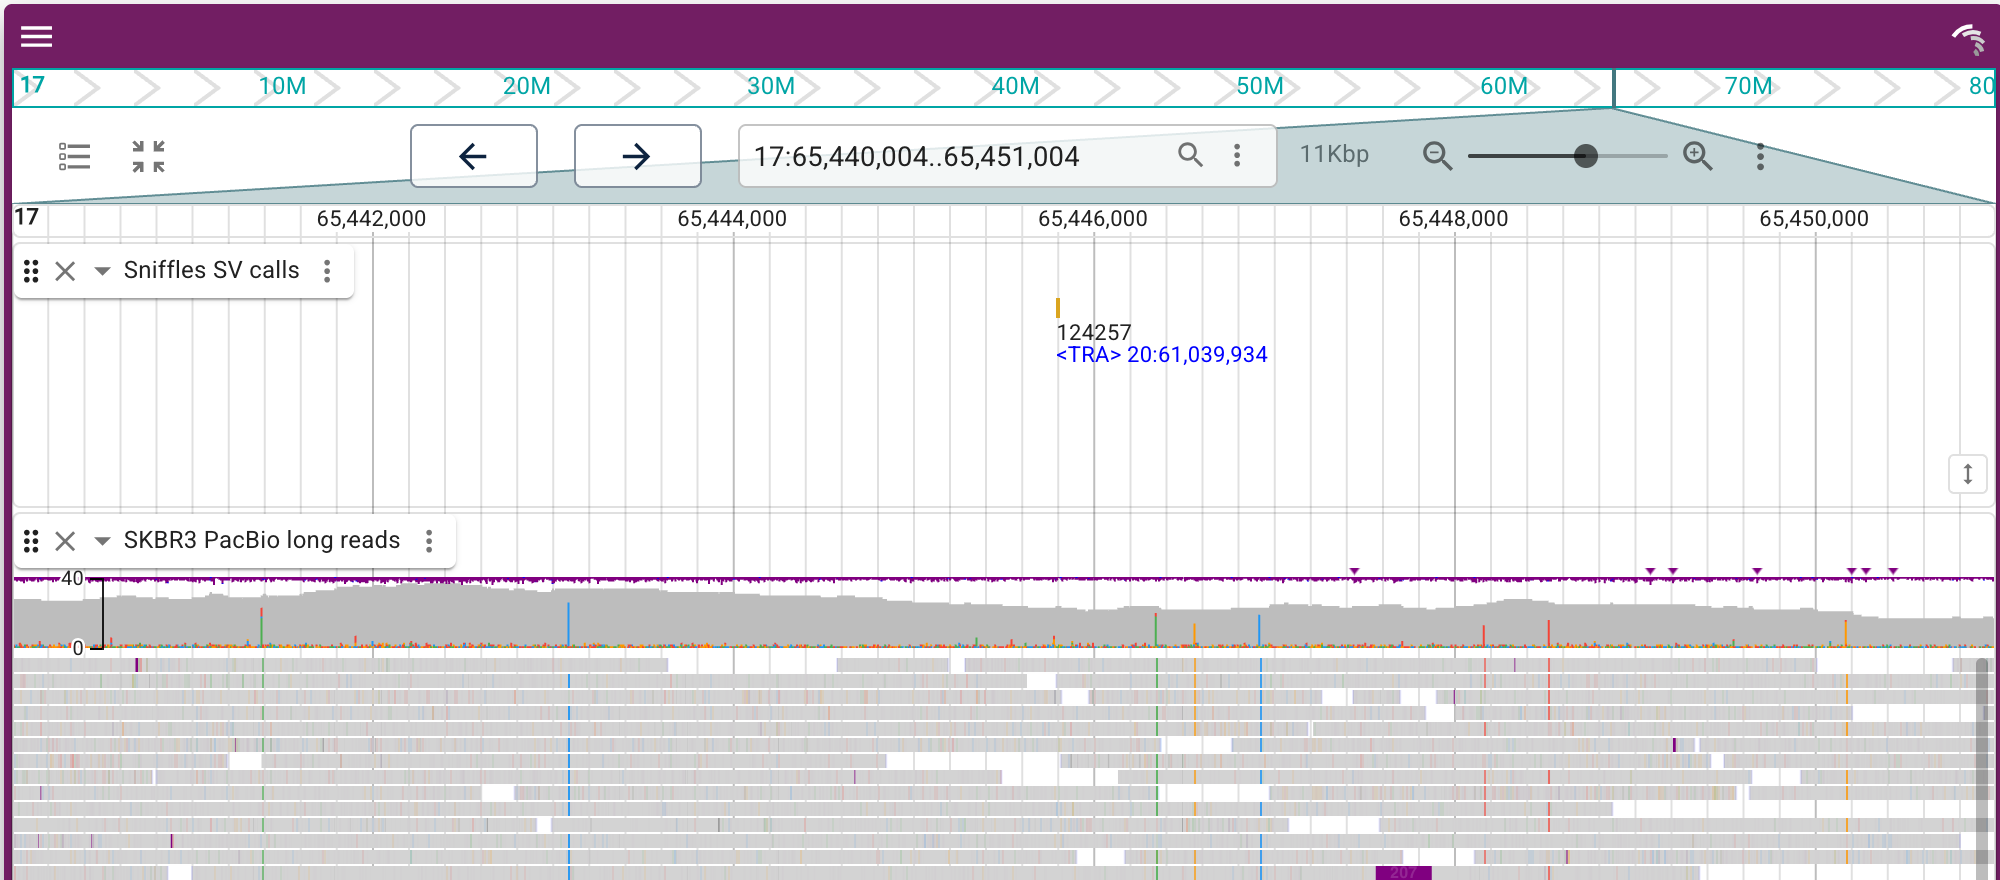
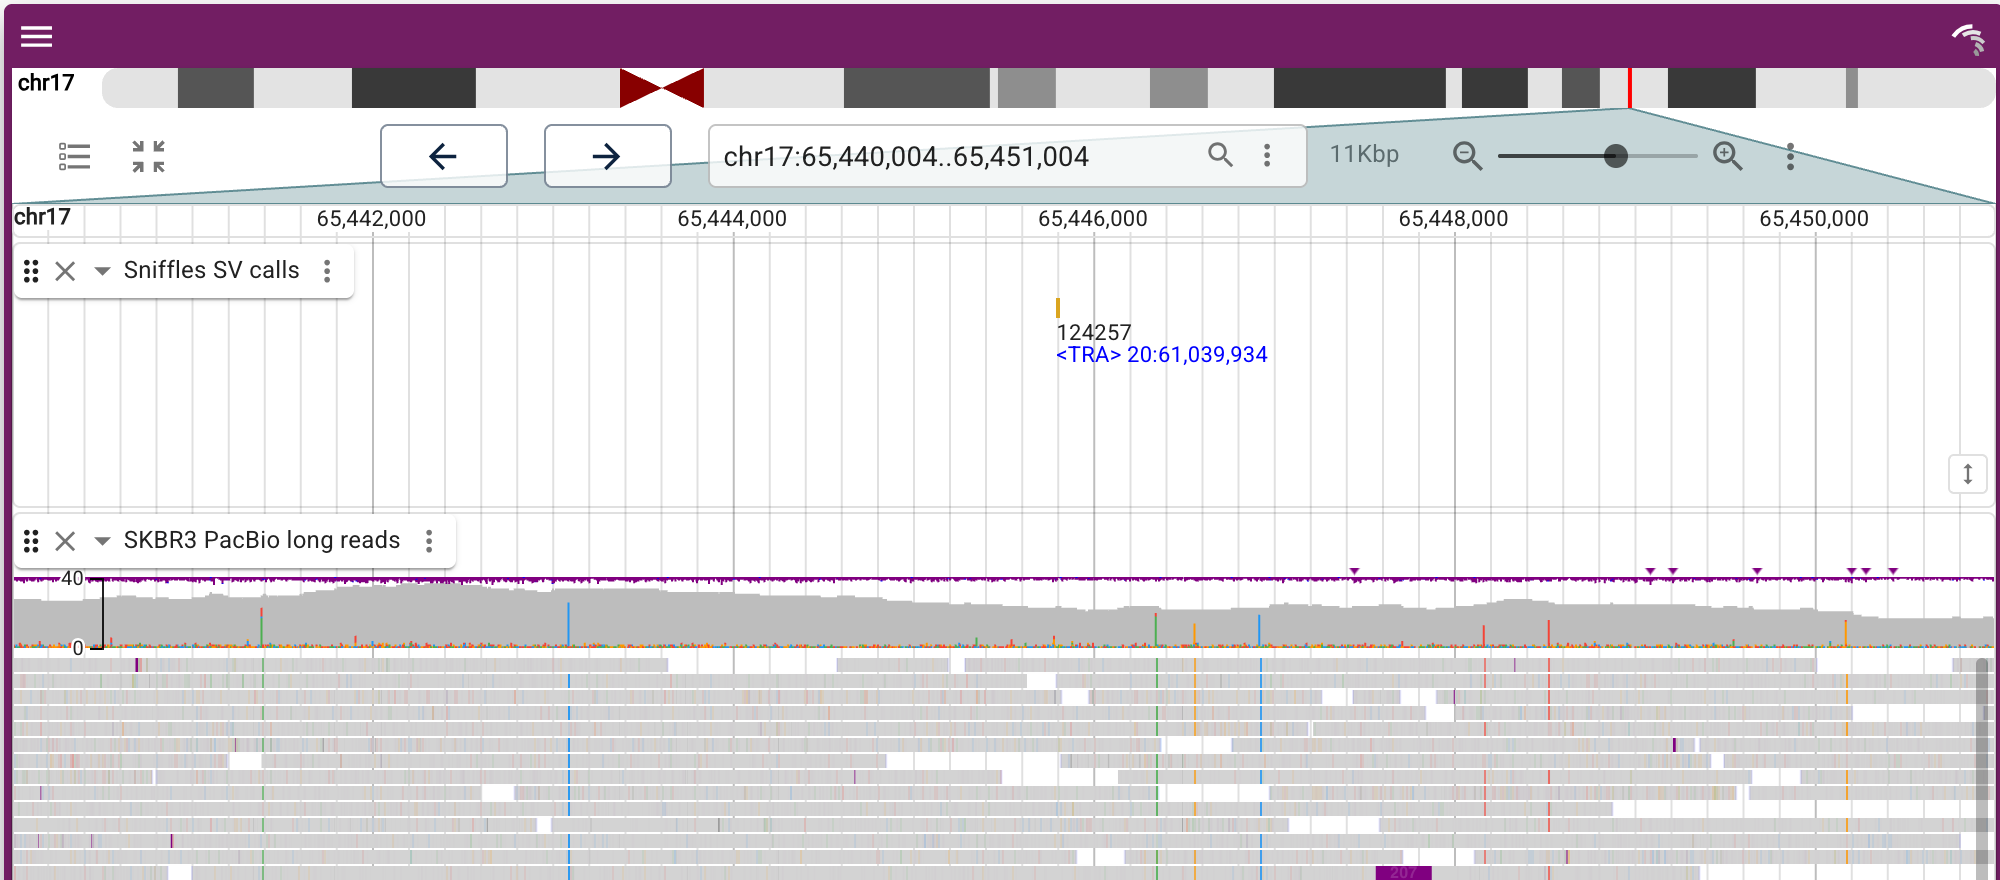
Deploying to gh-pages from @ GMOD/JBrowseR@ae35609b1a81b4aea1168d3afd086666b17318f0 🚀

diff --git a/articles/JBrowseR.html b/articles/JBrowseR.html
@@ -292,18 +292,9 @@ as a Manhattan plot right in the linear view, so no separate plotting
 widget is needed. Write the track as a config list — the same JSON a
 JBrowse config file holds — and let the <code>uri</code> shorthand find
 the <code>.tbi</code> index.</p>
-<p>The hosted hg19 hub carries no reference-name aliases (hg38’s does),
-so name that assembly yourself with its alias file — otherwise the view
-only answers to <code>chr2</code> and a track keyed on a bare
-<code>2</code> draws nothing.</p>
 <div class="sourceCode" id="cb9"><pre class="downlit sourceCode r">
-<code class="sourceCode R"><span><span class="va">hg19</span> <span class="op">&lt;-</span> <span class="fu"><a href="../reference/assembly.html">assembly</a></span><span class="op">(</span></span>
-<span>  <span class="st">"https://jbrowse.org/genomes/hg19/fasta/hg19.fa.gz"</span>,</span>
-<span>  refname_aliases <span class="op">=</span> <span class="st">"https://jbrowse.org/genomes/hg19/hg19_aliases.txt"</span></span>
-<span><span class="op">)</span></span>
-<span></span>
-<span><span class="fu"><a href="../reference/JBrowseR.html">JBrowseR</a></span><span class="op">(</span></span>
-<span>  <span class="va">hg19</span>,</span>
+<code class="sourceCode R"><span><span class="fu"><a href="../reference/JBrowseR.html">JBrowseR</a></span><span class="op">(</span></span>
+<span>  <span class="st">"hg19"</span>,</span>
 <span>  tracks <span class="op">=</span> <span class="fu"><a href="https://rdrr.io/r/base/list.html" class="external-link">list</a></span><span class="op">(</span><span class="fu"><a href="https://rdrr.io/r/base/list.html" class="external-link">list</a></span><span class="op">(</span></span>
 <span>    type <span class="op">=</span> <span class="st">"GWASTrack"</span>,</span>
 <span>    trackId <span class="op">=</span> <span class="st">"gwas_track"</span>,</span>
@@ -349,7 +340,7 @@ chr20 (<code>&lt;TRA&gt; 20:61,039,934</code>): the call sits in the
 Sniffles track and the long reads carry it below.</p>
 <div class="sourceCode" id="cb11"><pre class="downlit sourceCode r">
 <code class="sourceCode R"><span><span class="fu"><a href="../reference/JBrowseR.html">JBrowseR</a></span><span class="op">(</span></span>
-<span>  <span class="va">hg19</span>,</span>
+<span>  <span class="st">"hg19"</span>,</span>
 <span>  tracks <span class="op">=</span> <span class="fu"><a href="../reference/tracks.html">tracks</a></span><span class="op">(</span></span>
 <span>    <span class="fu"><a href="../reference/track.html">track</a></span><span class="op">(</span></span>
 <span>      <span class="st">"https://jbrowse.org/genomes/hg19/SKBR3/reads_lr_skbr3.fa_ngmlr-0.2.3_mapped.bam.sniffles1kb_auto_l8_s5_noalt.filtered.vcf.gz"</span>,</span>

diff --git a/articles/live-browser.html b/articles/live-browser.html
@@ -191,13 +191,8 @@ The adapter’s <code>uri</code> shorthand finds the <code>.tbi</code>
 index next to the data, and JBrowse fills in <code>displayId</code>, so
 the config stays short.</p>
 <div class="sourceCode" id="cb5"><pre class="downlit sourceCode r">
-<code class="sourceCode R"><span><span class="va">hg19</span> <span class="op">&lt;-</span> <span class="fu"><a href="../reference/assembly.html">assembly</a></span><span class="op">(</span></span>
-<span>  <span class="st">"https://jbrowse.org/genomes/hg19/fasta/hg19.fa.gz"</span>,</span>
-<span>  refname_aliases <span class="op">=</span> <span class="st">"https://jbrowse.org/genomes/hg19/hg19_aliases.txt"</span></span>
-<span><span class="op">)</span></span>
-<span></span>
-<span><span class="fu"><a href="../reference/JBrowseR.html">JBrowseR</a></span><span class="op">(</span></span>
-<span>  <span class="va">hg19</span>,</span>
+<code class="sourceCode R"><span><span class="fu"><a href="../reference/JBrowseR.html">JBrowseR</a></span><span class="op">(</span></span>
+<span>  <span class="st">"hg19"</span>,</span>
 <span>  tracks <span class="op">=</span> <span class="fu"><a href="https://rdrr.io/r/base/list.html" class="external-link">list</a></span><span class="op">(</span><span class="fu"><a href="https://rdrr.io/r/base/list.html" class="external-link">list</a></span><span class="op">(</span></span>
 <span>    type <span class="op">=</span> <span class="st">"GWASTrack"</span>,</span>
 <span>    trackId <span class="op">=</span> <span class="st">"gwas_track"</span>,</span>
@@ -212,7 +207,7 @@ the config stays short.</p>
 <span>  location <span class="op">=</span> <span class="st">"2"</span></span>
 <span><span class="op">)</span></span></code></pre></div>
 <div class="JBrowseR html-widget html-fill-item" id="htmlwidget-febe03efa1a2d8d52a86" style="width:700px;height:432.632880098888px;"></div>
-<script type="application/json" data-for="htmlwidget-febe03efa1a2d8d52a86">{"x":{"assembly":{"name":"hg19","uri":"https://jbrowse.org/genomes/hg19/fasta/hg19.fa.gz","refNameAliases":{"uri":"https://jbrowse.org/genomes/hg19/hg19_aliases.txt"}},"tracks":[{"type":"GWASTrack","trackId":"gwas_track","name":"GWAS","adapter":{"type":"GWASAdapter","scoreColumn":"neg_log_pvalue","uri":"https://jbrowse.org/genomes/hg19/gwas/summary_stats.txt.gz"},"displays":[{"type":"LinearManhattanDisplay","height":250}]}],"location":"2"},"evals":[],"jsHooks":[]}</script><p>For comparative genomics — synteny and dotplots across two assemblies
+<script type="application/json" data-for="htmlwidget-febe03efa1a2d8d52a86">{"x":{"assembly":"hg19","tracks":[{"type":"GWASTrack","trackId":"gwas_track","name":"GWAS","adapter":{"type":"GWASAdapter","scoreColumn":"neg_log_pvalue","uri":"https://jbrowse.org/genomes/hg19/gwas/summary_stats.txt.gz"},"displays":[{"type":"LinearManhattanDisplay","height":250}]}],"location":"2"},"evals":[],"jsHooks":[]}</script><p>For comparative genomics — synteny and dotplots across two assemblies
 — see the <a href="synteny.html">comparing genomes</a> article, which
 uses <code><a href="../reference/JBrowseRApp.html">JBrowseRApp()</a></code>.</p>
 </div>

diff --git a/articles/json-tutorial.html b/articles/json-tutorial.html
@@ -131,12 +131,12 @@ guide</a> and may contain <code>assembly</code>, <code>tracks</code>,
 <div class="section level2">
 <h2 id="from-a-config-file">From a config file<a class="anchor" aria-label="anchor" href="#from-a-config-file"></a>
 </h2>
-<p><code><a href="../reference/json_config.html">json_config()</a></code> reads a <code>config.json</code> (a local
-path or a URL) into the string <code>config</code> expects. A config
-file is portable — the same file works in the JBrowse web app and
+<p><code>config</code> takes the path or URL of a
+<code>config.json</code> and reads it for you (JSON text works too). A
+config file is portable — the same file works in the JBrowse web app and
 desktop.</p>
 <div class="sourceCode" id="cb2"><pre class="downlit sourceCode r">
-<code class="sourceCode R"><span><span class="fu"><a href="../reference/JBrowseR.html">JBrowseR</a></span><span class="op">(</span>config <span class="op">=</span> <span class="fu"><a href="../reference/json_config.html">json_config</a></span><span class="op">(</span><span class="st">"https://jbrowse.org/genomes/hg19/config.json"</span><span class="op">)</span><span class="op">)</span></span></code></pre></div>
+<code class="sourceCode R"><span><span class="fu"><a href="../reference/JBrowseR.html">JBrowseR</a></span><span class="op">(</span>config <span class="op">=</span> <span class="st">"https://jbrowse.org/genomes/hg19/config.json"</span><span class="op">)</span></span></code></pre></div>
 </div>
 <div class="section level2">
 <h2 id="from-an-r-list">From an R list<a class="anchor" aria-label="anchor" href="#from-an-r-list"></a>

diff --git a/reference/index.html b/reference/index.html
@@ -142,14 +142,6 @@
           <p><code><a href="synteny_track.html">synteny_track()</a></code> </p>
         </td>
         <td><p>Build a synteny (PAF) track config spanning two assemblies</p></td>
-      </tr></tbody><tbody><tr><th colspan="2">
-          <h2 id="advanced">Advanced <a href="#advanced" class="anchor" aria-hidden="true"></a></h2>
-          <p class="section-desc"></p><p>Full JBrowse config escape hatch</p>
-        </th>
-      </tr></tbody><tbody><tr><td>
-          <p><code><a href="json_config.html">json_config()</a></code> </p>
-        </td>
-        <td><p>Load a whole JBrowse 2 config file</p></td>
       </tr></tbody></table></div>
 
   <div class="col-md-3 hidden-xs hidden-sm" id="pkgdown-sidebar">

diff --git a/reference/JBrowseR.html b/reference/JBrowseR.html
@@ -142,9 +142,9 @@ it owns the initial track layout instead of <code>tracks</code>.</p></dd>
 
 
 <dt id="arg-config">config<a class="anchor" aria-label="anchor" href="#arg-config"></a></dt>
-<dd><p>Escape hatch: a whole JBrowse config (a list, or a JSON string
-from <code><a href="json_config.html">json_config()</a></code>) forming the payload base that explicit arguments
-override.</p></dd>
+<dd><p>Escape hatch: a whole JBrowse config forming the payload base
+that explicit arguments override — a list, or the path, URL, or JSON text of
+a <code>config.json</code>.</p></dd>
 
 
 <dt id="arg-width-height-elementid">width, height, elementId<a class="anchor" aria-label="anchor" href="#arg-width-height-elementid"></a></dt>

diff --git a/reference/JBrowseRApp.html b/reference/JBrowseRApp.html
@@ -132,9 +132,9 @@ builds the common PAF case.</p></dd>
 
 
 <dt id="arg-config">config<a class="anchor" aria-label="anchor" href="#arg-config"></a></dt>
-<dd><p>Escape hatch: a whole JBrowse config (a list, or a JSON string
-from <code><a href="json_config.html">json_config()</a></code>) forming the payload base that explicit arguments
-override.</p></dd>
+<dd><p>Escape hatch: a whole JBrowse config forming the payload base
+that explicit arguments override — a list, or the path, URL, or JSON text of
+a <code>config.json</code>.</p></dd>
 
 
 <dt id="arg-width-height-elementid">width, height, elementId<a class="anchor" aria-label="anchor" href="#arg-width-height-elementid"></a></dt>

diff --git a/news/index.html b/news/index.html
@@ -82,6 +82,7 @@
 <li><p>New <code>view(type, ...)</code> builds the <code>list(type, init)</code> spec for any view type, including one a runtime <code>plugins</code> entry registers — its init fields are the plugin’s own, so nothing in JBrowseR has to keep up with them. The three view helpers are thin wrappers over it, and <code>NULL</code> fields are dropped.</p></li>
 <li><p><code><a href="../reference/track_data_frame.html">track_data_frame()</a></code> carries every column beyond <code>chrom</code>/<code>start</code>/<code>end</code>/<code>name</code> onto each feature (previously only <code>score</code> and <code>additional</code>), so any column you computed shows in the feature details.</p></li>
 <li><p><code><a href="../reference/assembly.html">assembly()</a></code> accepts a <code>.2bit</code> URL (<code>TwoBitAdapter</code>) in addition to FASTA.</p></li>
+<li><p>Removed <code>json_config()</code>. <code>config =</code> takes the path or URL of a <code>config.json</code> directly (as well as a list or JSON text), so reading the file is no longer a separate step.</p></li>
 <li><p>Upgraded to the GPU-accelerated JBrowse 2 v4 linear genome view (<code>@jbrowse/react-linear-genome-view2</code>), driven through the shared framework-agnostic <code>@jbrowse/embedded-linear-genome-view</code> controller.</p></li>
 <li><p>New declarative API. <code>JBrowseR("hg38", location = "BRCA1")</code> loads a whole hosted genome (assembly, reference-name aliases, cytobands, gene search) in one line. Build custom browsers from plain values with <code><a href="../reference/assembly.html">assembly()</a></code>, <code><a href="../reference/track.html">track()</a></code> (track type and index files inferred from the URL), <code><a href="../reference/tracks.html">tracks()</a></code>, <code><a href="../reference/text_index.html">text_index()</a></code>, and <code><a href="../reference/theme.html">theme()</a></code>, which now return lists rather than JSON strings.</p></li>
 <li><p><code>tracks</code> entries also accept a bare data-URL string or a <code>c(url, index)</code> pair, not just a <code><a href="../reference/track.html">track()</a></code> config, so a whole browser can skip the constructor.</p></li>